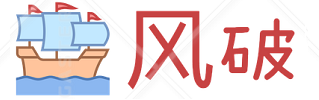
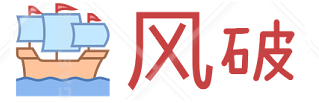
提交下乡初体验以及index的logo

diff --git a/amWikiwenku/index.html b/amWikiwenku/index.html
@@ -10,7 +10,7 @@
         <link rel="stylesheet" type="text/css" href="amWiki/css/markdownbody.github.css" />
         <link rel="stylesheet" type="text/css" href="amWiki/css/lhjs.github-gist.css" />
         <link rel="stylesheet" type="text/css" href="amWiki/css/amWiki.css" />
-        
+
     </head>
 
     <body>
@@ -18,7 +18,7 @@
         <header class="header">
             <div class="header-inner">
                 <a class="logo" href="?file=首页">
-                    <img src="amWiki/images/logo.png" /><i></i>
+                    <img src="amWiki/images/cfpl.png" /><i></i>
                     <b>乘风破浪队</b>
                     <span>by onething</span>
                 </a>
@@ -110,7 +110,7 @@
                         </div>
                     </div>
                     <!-- 接口测试 -->
-                    
+
                 </div>
             </div>
         </div>
@@ -159,7 +159,7 @@
         </footer>
         <!-- mounts -->
         <div class="hidden" aw-include="mountLinks">
-            <script>AWConfig={"name":"乘风破浪队","ver":"by onething","version":"by onething","logo":"amWiki/images/logo.png","testing":false,"colour":"#4296eb","pageMounts":false,"githubUrl":"","libraryPrefix":""}</script>
+            <script>AWConfig={"name":"乘风破浪队","ver":"by onething","version":"by onething","logo":"amWiki/images/cfpl.png","testing":false,"colour":"#4296eb","pageMounts":false,"githubUrl":"","libraryPrefix":""}</script>
         </div>
         <!-- js -->
         <div class="hidden">
@@ -175,11 +175,11 @@
             <script type="text/javascript" src="amWiki/js/amWiki.search.js"></script>
             <script type="text/javascript" src="amWiki/js/amWiki.search.worker.js"></script>
             <script type="text/javascript" src="amWiki/js/amWiki.docs.js"></script>
-            
+
             <script type="text/javascript" src="amWiki/js/amWiki.scrollbar.js"></script>
             <script type="text/javascript" src="amWiki/js/amWiki.imgsView.js"></script>
             <script type="text/javascript" src="amWiki/js/amWiki.js"></script>
-            
+
         </div>
         <!-- svg -->
         <div class="hidden" id="svgSymbols"></div>

diff --git a/amWikiwenku/library/004-下乡点滴/001-下乡初体验.md b/amWikiwenku/library/004-下乡点滴/001-下乡初体验.md
@@ -1,0 +1,32 @@
+# 下乡初体验
+---
+### <font color="red">匆匆三天已过去<br>小老师们渐入佳境<br>从刚开始的拘谨上课到和孩子打成一片......</font>
+
+![](https://raw.githubusercontent.com/ronething/sanxiaxiang/master/amWikiwenku/amWiki/images/001.jpg)
+
+![](https://raw.githubusercontent.com/ronething/sanxiaxiang/master/amWikiwenku/amWiki/images/002.jpg)
+
+![](https://raw.githubusercontent.com/ronething/sanxiaxiang/master/amWikiwenku/amWiki/images/003.jpg)
+
+![](https://raw.githubusercontent.com/ronething/sanxiaxiang/master/amWikiwenku/amWiki/images/004.jpg)
+
+![](https://raw.githubusercontent.com/ronething/sanxiaxiang/master/amWikiwenku/amWiki/images/005.jpg)
+
+![](https://raw.githubusercontent.com/ronething/sanxiaxiang/master/amWikiwenku/amWiki/images/007.jpg)
+
+### <font color="red">下乡支教初体验<br>小老师们有话说</font>
+#### <font >来到不同工作的环境，接触不同的人，就会收获到很多不一样的生活经验，并且和小朋友们的相处也是很融洽------日俊</font>
+#### <font >2017年7月13日我们正式相遇，穿越了大半个中国，只为彼此的那一份真心。<br>与你们相遇好幸运，这几天的相处我感受到这里的温暖，教你们知识的同时我也有了新的感触，世上最好的事情就是看见你们脸上纯真的笑容，我们带你寻找另一个天堂，你们帮我实现了梦想，让我看到爱的伟大，生命之处，感谢有你们，感谢遇到你们------学凤</font>
+#### <font >在13号那天早上，我们与小天使们相遇相识。我们一起玩游戏，一起聊天，我发现小天使们有点皮，不太爱学习，但我有信心，通过我们接下来十多天的陪伴，他们会爱上学习。--------健婷</font>
+#### <font >🌚 跟一群单纯的孩子们相处两天，感觉我们从他们身上学到的更多，何为尊重，何为好学。他们认真求知的眼神，不掺杂质的纯真，仿佛也把我带回了童年。-------琪琪</font>
+#### <font >上课俩天了，让我很感动的是每天早上还没到上课时间，我们去到学校，都已经有很多孩子在那里等着我们，兴高采烈地叫我们哥哥姐姐好！<br>这俩天上了朗诵课和舞蹈课。第一节课是朗诵课，教大家诵唱《论语总序》，小朋友都很纯真，听课也很认真，朗朗书声，稚嫩的声音，让我更加想教好课，同时给彼此更真诚的陪伴。<br>舞蹈课上，看到有些小孩子很有天赋，学舞步很快。作为小老师，心里感到欣慰的同时，更想把自己所有的知识都传授给她们，在她们的心中撒下美好与梦想的种子。
+#### 和花儿一样美好的小姑娘们，像太阳一样温暖的小帅哥们。让我们互相陪伴，给你快乐，也给我感动。多些日子，再多些日子。-------文婷</font>
+#### <font >路漫漫其修远兮，小朋友们都很活泼有趣，希望在接下来的日子里能够和小朋友们继续好好相处，在他们的生活里留下不同的一笔。 每当看到小朋友们那一张张笑开花的脸，我似乎感觉每日的疲弊都算不了什么，希望小朋友们以后不管面对什么，都能够笑下去。------垠涛</font>
+#### <font >小朋友们很可爱，对我们没有抵触情绪，很热情地和我们玩。来到这里的一切都很好，但希望自己更加努力。------梓余</font>
+#### <font >emmmmmm...<br>孩子们都很单纯可爱呀<br>也在很认真的学东西~<br>大家年龄段跨度比较大但都是同样的棒<br>都很懂礼貌很懂事<br>诶嘿嘿by the way<br>早上大家一起玩的狗尾巴草瞬间把我们带回了童年呢<br>嗯<br>乡下空气很好<br>叔叔阿姨人也很好<br>很感谢吧<br>也很愉快<br>如果可以多给孩子们一些陪伴就好咯<br>-------- 思宇</font>
+#### <font >孩子们有点调皮，上课有点三心二意，长得有点可爱-----仁杰</font>
+#### <font >孩子们都很可爱。我要努力做个好老师，在这半个月给他们最多的正面影响-----硕丰</font>
+#### <font >孩子们都很可爱。作为一个好人，我会在这半个月里好好照顾他们的。-------玩星</font>
+#### <font >我们千里而来，遇见可爱的你；我们不辞万里，为了活泼的你；我们日日牵挂，期待再见明天的你。相处相识几天，就像定下了一生的友谊，喜欢爱玩的你，喜欢认真读书的你，喜欢满脸笑容的你，我们会铭记这幸运的友谊。------少芬</font>
+<br>
+![](https://raw.githubusercontent.com/ronething/sanxiaxiang/master/amWikiwenku/amWiki/images/006.jpg)

diff --git a/amWikiwenku/library/005-团队总结/001-带不走的，只有你.md b/amWikiwenku/library/005-团队总结/001-带不走的，只有你.md
@@ -1,0 +1,20 @@
+# 资阳带不走的，只有你
+<h2 align = "right">——乘风破浪队三下乡团队总结</h2>
+
+---
+### 话别广州，历经三十五小时的火车硬座，7月12日凌晨，我们抵达资阳市。就着天边泛起的鱼肚白，我们享受着四川的第一次早餐。早餐过后又是漫长的大巴之旅，在乏味和颠簸中，在疲倦和期待中，我们终于来到政府为我们提供的住所。政府高度重视“童伴计划”试点行动，密切关注青年志愿者的动态和需求，所以我们在金堂村的支教帮扶得到了政府的大力支持，并且得以顺利开展。
+---
+![](https://raw.githubusercontent.com/ronething/printer/master/%E4%B8%89%E4%B8%8B%E4%B9%A1/huoche.jpg)
+---
+### 7月13日，我们正式开展支教活动，首先开展了破冰班会，让队员和孩子们互相熟悉。接下来，便开始了正式的支教课程。抱着“要让孩子学到更多平时接触不到的知识”的心态，我们开展了象棋课、折纸课、趣味英语、趣味实验等有趣的课程，根据孩子们的意愿，增减课时。当我们知道孩子们缺少英语老师，所以很晚才接触英语课后，我们多开展了几节趣味英语课，让孩子们提前接触英语知识，这得到很好的反响。
+---
+### 接踵而至的，是我们的家访。走访多为较为典型性的几个留守儿童家庭，留守儿童的成因主要包括父母外出打工、父母离异、父母双亡等复杂情况，其中以外出打工居多。留守儿童多半是由老一辈抚养，外公外婆或者爷爷奶奶，少部分由舅舅等中年抚养人抚养。尽管孩子们偶尔会与父母通电话或者父母会趁着假期回家，但是大部分时间孩子们是和老人们相处的。这就造成了两种极端，一种因为缺乏父母之爱，而被老人们格外宠溺着，加上老人多半在儿童教育方面有所欠缺，所以这一部分孩子表现为性格活泼、礼节欠缺；另一种则比较体贴懂事，会照顾弟弟妹妹，也会帮忙家务，但性格内向、不善言语。还有一些情况特殊的家庭还会有轻微家暴和重男轻女的现象，对孩子的身心也有一定的印象，使孩子有欺负弱小或者胆小怕事的倾向。
+---
+### 家庭的影响往往是潜移默化的，对于缺乏父爱母爱，缺乏家庭教育的留守儿童，我们必须关注好他们的身心成长，尤其是心理发育，但这种关爱不只是陪伴照护，更多地应当是教育引导。随着关爱留守儿童项目的普及，越来越多的志愿者开始关爱陪护这些“缺乏爱”的留守儿童们，殊不知“缺乏教育”才是最亟待解决的问题。告诉他们那些爷爷奶奶未曾说过的应当常怀的感恩之心、文明谦让的美德、尊老爱幼的传统、海纳百川的品质、君子不受嗟来之食的高雅等等。社会应当关注这些生长在背光处，缺乏阳光、亟待成长、需要领航的小树苗，他们同其他阳光下的树苗一样，未来不可估量，只要我们帮助他们走好正确的方向。
+---
+### 家访一行，感触良多，队员们愈加意识到自身责任之重，开始更多地选择耐心地指引他们走向真善美的道路。
+---
+### 近两周的陪伴之后，必不可少的便是离别的节日。一场圆满结束的汇演，视频的最后一个音节，成了三下乡一只圆润的句号，至此，为期十五天的支教生活，就这样匆匆又预料之中的结束了。没有意料之中的不舍，他们好像一直活在我的心中，偶尔发会呆，仿佛又回到了烈日下的那间小屋，又被簇拥着，笑着看着他们拉着我的手，小嘴一张一合，说着天南地北。那时，天上的白云捏得有点可爱，屋旁小藤的叶儿也顽皮地偷偷瞄着我们。这个夏天，有点那么美好。
+---
+
+![](https://raw.githubusercontent.com/ronething/printer/master/%E4%B8%89%E4%B8%8B%E4%B9%A1/hezhao.jpg)

diff --git a/amWikiwenku/library/$navigation.md b/amWikiwenku/library/$navigation.md
@@ -1,6 +1,23 @@
 
 #### [首页](?file=home-首页)
 
+##### 学习amWiki
+- [amWiki轻文库简介](?file=001-学习amWiki/01-amWiki轻文库简介 "amWiki轻文库简介")
+- [amWiki功能导图](?file=001-学习amWiki/02-amWiki功能导图 "amWiki功能导图")
+- [如何开始一个新amWiki轻文库](?file=001-学习amWiki/03-如何开始一个新amWiki轻文库 "如何开始一个新amWiki轻文库")
+- [如何编辑amWiki轻文库](?file=001-学习amWiki/04-如何编辑amWiki轻文库 "如何编辑amWiki轻文库")
+- **学习markdown**
+    - [Markdown快速开始](?file=001-学习amWiki/05-学习markdown/01-Markdown快速开始 "Markdown快速开始")
+    - [amWiki与语法高亮](?file=001-学习amWiki/05-学习markdown/02-amWiki与语法高亮 "amWiki与语法高亮")
+    - [amWiki与流程图](?file=001-学习amWiki/05-学习markdown/03-amWiki与流程图 "amWiki与流程图")
+    - [Atom对Markdown的原生支持](?file=001-学习amWiki/05-学习markdown/05-Atom对Markdown的原生支持 "Atom对Markdown的原生支持")
+- [使用测试模块测试接口](?file=001-学习amWiki/06-使用测试模块测试接口 "使用测试模块测试接口")
+- [amWiki转接到任意域名进行接口测试](?file=001-学习amWiki/07-amWiki转接到任意域名进行接口测试 "amWiki转接到任意域名进行接口测试")
+
+##### 文档示范
+- [通用API接口文档示例](?file=002-文档示范/001-通用API接口文档示例 "通用API接口文档示例")
+- [超长文档页内目录示例](?file=002-文档示范/002-超长文档页内目录示例 "超长文档页内目录示例")
+
 ##### 成员介绍
 - [潘琪琪](?file=003-成员介绍/001-潘琪琪 "潘琪琪")
 - **宣传部**
@@ -23,5 +40,8 @@
     - [潘琪琪](?file=003-成员介绍/007-外联部/001-潘琪琪 "潘琪琪")
     - [陈思宇](?file=003-成员介绍/007-外联部/002-陈思宇 "陈思宇")
 
+##### 下乡点滴
+- [下乡初体验](?file=004-下乡点滴/001-下乡初体验 "下乡初体验")
+
 ##### 团队总结
-- [带不走的，只有你](?file=004-团队总结/001-带不走的，只有你 "带不走的，只有你")
+- [带不走的，只有你](?file=005-团队总结/001-带不走的，只有你 "带不走的，只有你")

diff --git a/amWikiwenku/library/home-首页.md b/amWikiwenku/library/home-首页.md
@@ -2,4 +2,4 @@
 
 <br>
 
-![乘风破浪队](https://raw.githubusercontent.com/ronething/sanxiaxiang/master/amWikiwenku/amWiki/images/cfpl.jpg)  
+![乘风破浪队](https://raw.githubusercontent.com/ronething/sanxiaxiang/master/amWikiwenku/amWiki/images/cfpl.jpg)
